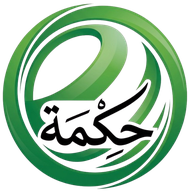
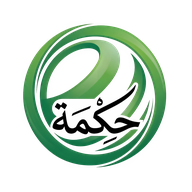
chore: clean up empty code change sections in the changes log

diff --git a/frontend/public/index.html b/frontend/public/index.html
@@ -118,9 +118,9 @@
       display: flex;
       align-items: center;
       justify-content: center;
-      border-radius: 9999px;
-      background: #ffffff;
-      padding: 2px;
+      border-radius: 18px;
+      background: transparent;
+      padding: 0;
       box-sizing: border-box;
     }
     .flo-logo img {
@@ -152,7 +152,7 @@
       <div class="flo-ring-wrap">
         <div class="flo-ring"></div>
         <div class="flo-logo">
-          <img src="/logo.png" alt=""/>
+          <img src="/icon-192.png" alt=""/>
         </div>
       </div>
       <p class="flo-label">Loading HikmahSphere…</p>
